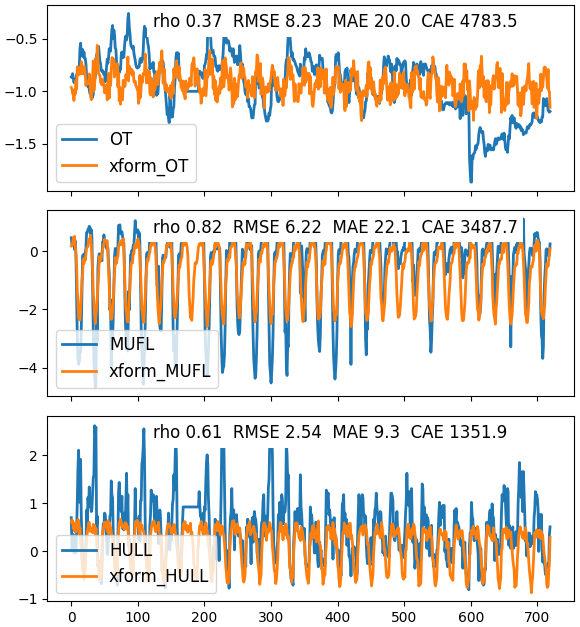
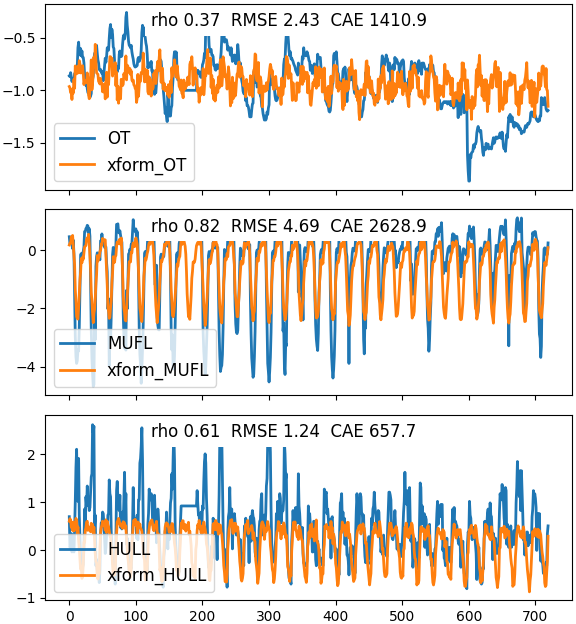
Update MAE

Changed region(s): [[0.0312, 0.3349, 1.0, 1.0], [0.0, 0.0, 1.0, 0.3045], [0.1875, 0.2131, 0.3438, 0.274]]

diff --git a/README.md b/README.md
@@ -447,11 +447,11 @@ df_ = concat( [ data_.reset_index(drop=True),
 from pyEDM import ComputeError
 errD = {}
 err = ComputeError(df_['OT'], df_['GMN_OT'])
-errD[0] = f'rho {err['rho']:.2f}  RMSE {err['RMSE']:.2f}  MAE {err['MAE']:.1f}  CAE {err['CAE']:.1f}'
+errD[0] = f'rho {err['rho']:.2f}  RMSE {err['RMSE']:.2f}  CAE {err['CAE']:.1f}'
 err = ComputeError(df_['MUFL'], df_['GMN_MUFL'])
-errD[1] = f'rho {err['rho']:.2f}  RMSE {err['RMSE']:.2f}  MAE {err['MAE']:.1f}  CAE {err['CAE']:.1f}'
+errD[1] = f'rho {err['rho']:.2f}  RMSE {err['RMSE']:.2f}  CAE {err['CAE']:.1f}'
 err = ComputeError(df_['HULL'], df_['GMN_HULL'])
-errD[2] = f'rho {err['rho']:.2f}  RMSE {err['RMSE']:.2f}  MAE {err['MAE']:.1f}  CAE {err['CAE']:.1f}'
+errD[2] = f'rho {err['rho']:.2f}  RMSE {err['RMSE']:.2f}  CAE {err['CAE']:.1f}'
 
 fig,axs = plt.subplots(nrows = 3, ncols = 1, sharex = True,
                        tight_layout = True, figsize = (6,6.5) )
@@ -486,31 +486,41 @@ cd Crossformer_ETTh1_il720_ol720_sl24_win2_fa10_dm256_nh4_el3_itr4
 
 Crossfomer result stored here in local Crossformer/
 ```python
-# Plot Crossformer results i=13700,14420
-df = read_csv('dfx0_ETTh1_il720_ol720.csv')
+# Plot Crossformer results : rows 11520:12240 of ETTh1
+df = read_csv('dfx0_ETTh1_il720_ol720.csv', index_col = 0)
 
 # Observed data
 data = read_csv('../data/ETTh1.csv')
 
+# Crossformer standardises every column with a StandardScaler fit on the
+# ETTh1 train split (the first 8640 rows) : x_scaled = (x - mu) / sigma.
+# Both the observed (OT, MUFL...) and predicted (xform_*) columns of df are
+# in that scaled space.  Invert it to recover the original units so RMSE and
+# CAE are directly comparable to GMN, whose predictions are observed
+# amplitudes.  Since the transform is affine, |err| scales by sigma alone.
+columns = ['HUFL','HULL','MUFL','MULL','LUFL','LULL','OT']
+train   = data.loc[ :8639, columns ]
+mu      = train.mean()
+sigma   = train.std( ddof = 0 )  # sklearn StandardScaler uses ddof = 0
+
 # Error strings
 from pyEDM import ComputeError
-def ErrString( data, data_scaled, pred ) :
-    '''Crossformer scales the data : predictions'''
-    dataRange       = data.max() - data.min()
-    dataScaledRange = data_scaled.max() - data_scaled.min()
-    scale           = dataRange / dataScaledRange
-    err             = ComputeError( data_scaled, pred )
-    errStr = f"rho {err['rho']:.2f}  RMSE {scale * err['RMSE']:.2f}  " +\
-             f"MAE {scale * err['MAE']:.1f}  CAE {scale * err['CAE']:.1f}"
+def ErrString( column ) :
+    '''Un-scale Crossformer observed : predictions, then compute error'''
+    obs  = df[ column ]            * sigma[ column ] + mu[ column ]
+    pred = df[ 'xform_' + column ] * sigma[ column ] + mu[ column ]
+    err  = ComputeError( obs.values, pred.values )
+    errStr = f"rho {err['rho']:.2f}  RMSE {err['RMSE']:.2f}  " +\
+             f"CAE {err['CAE']:.1f}"
     return errStr
 
-# To compare RMSE MAE CAE with GMN where predictions are actual observed
-# amplitudes, scale the difference metrics to the observed data range
 errD = {}
-errD[0] = ErrString( data['OT'],   df['OT'],   df['xform_OT'] )
-errD[1] = ErrString( data['MUFL'], df['MUFL'], df['xform_MUFL'] )
-errD[2] = ErrString( data['HULL'], df['HULL'], df['xform_HULL'] )
+errD[0] = ErrString( 'OT'   )
+errD[1] = ErrString( 'MUFL' )
+errD[2] = ErrString( 'HULL' )
 
+# Plot the Crossformer output as-is, in the scaled space it is returned in.
+# Only the error metrics are un-scaled, for comparison against GMN.
 fig,axs = plt.subplots(nrows = len(errD), ncols = 1, sharex = True,
                        tight_layout = True, figsize = (6,6.5) )
 df.plot(y=['OT','xform_OT'],    lw=2,ax=axs[0])
@@ -518,7 +528,6 @@ df.plot(y=['MUFL','xform_MUFL'],lw=2,ax=axs[1])
 df.plot(y=['HULL','xform_HULL'],lw=2,ax=axs[2])
 
 for i, ax in enumerate( axs ) :
-    #ax.text( 0.3, 0.02, errD[i], transform = ax.transAxes, fontsize = 12 )
     ax.text( 0.2, 0.88, errD[i], transform=ax.transAxes, fontsize=12,
              bbox = dict(facecolor='white', linewidth=0,  alpha=1.0) )
     ax.tick_params(axis='both', labelsize=10)
